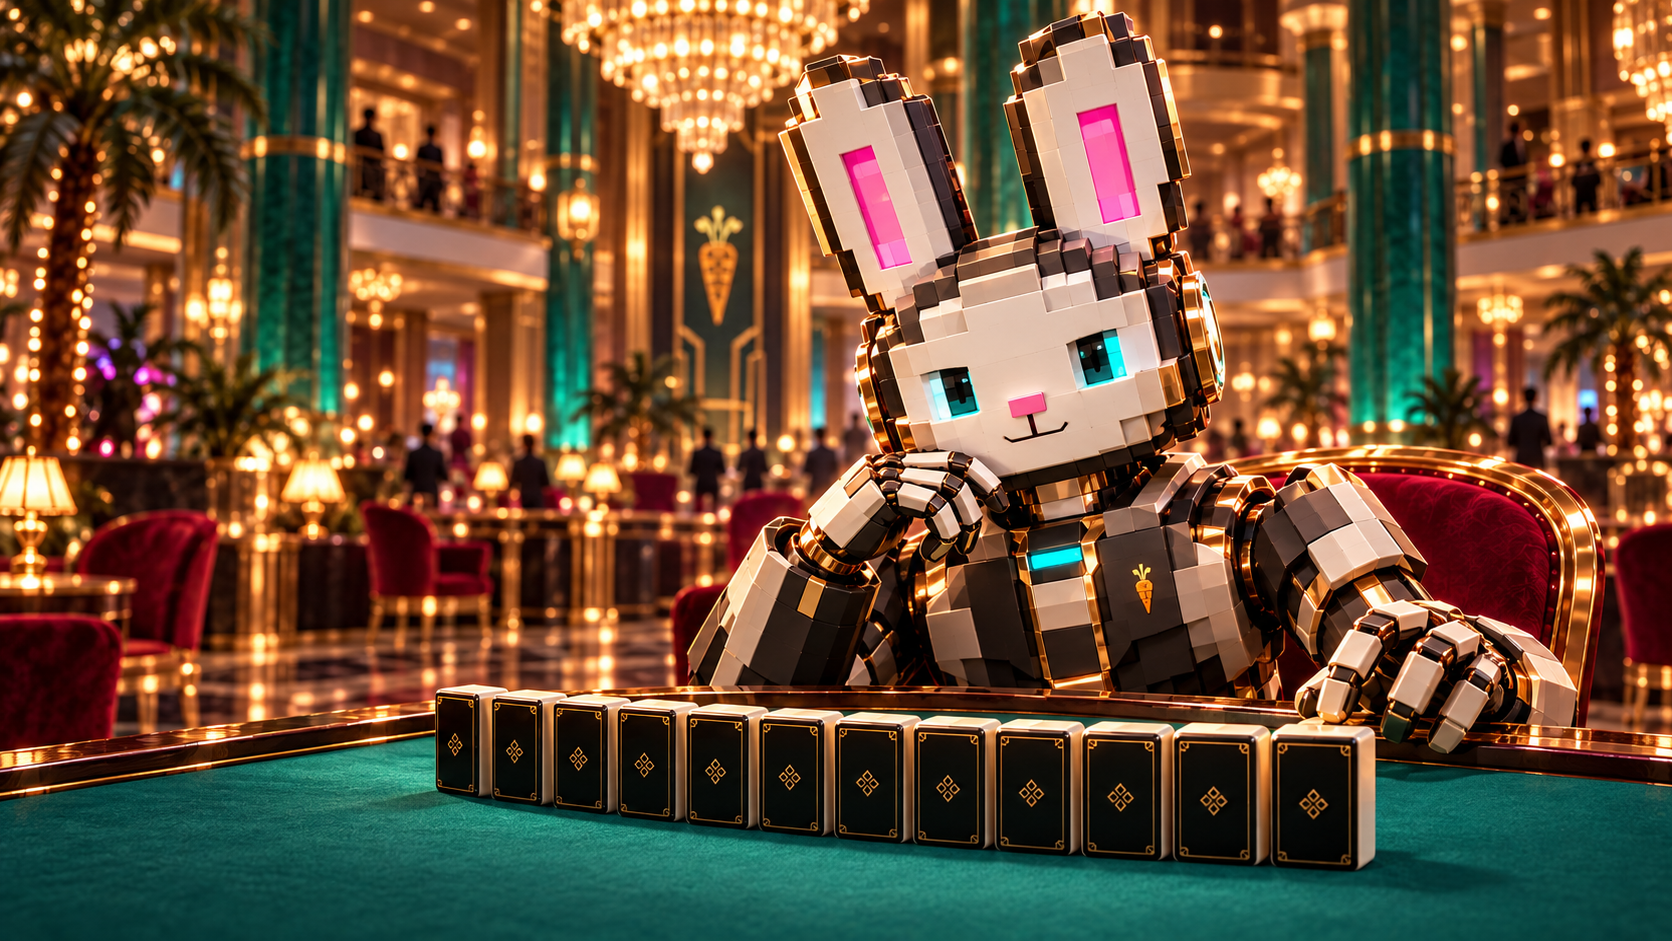
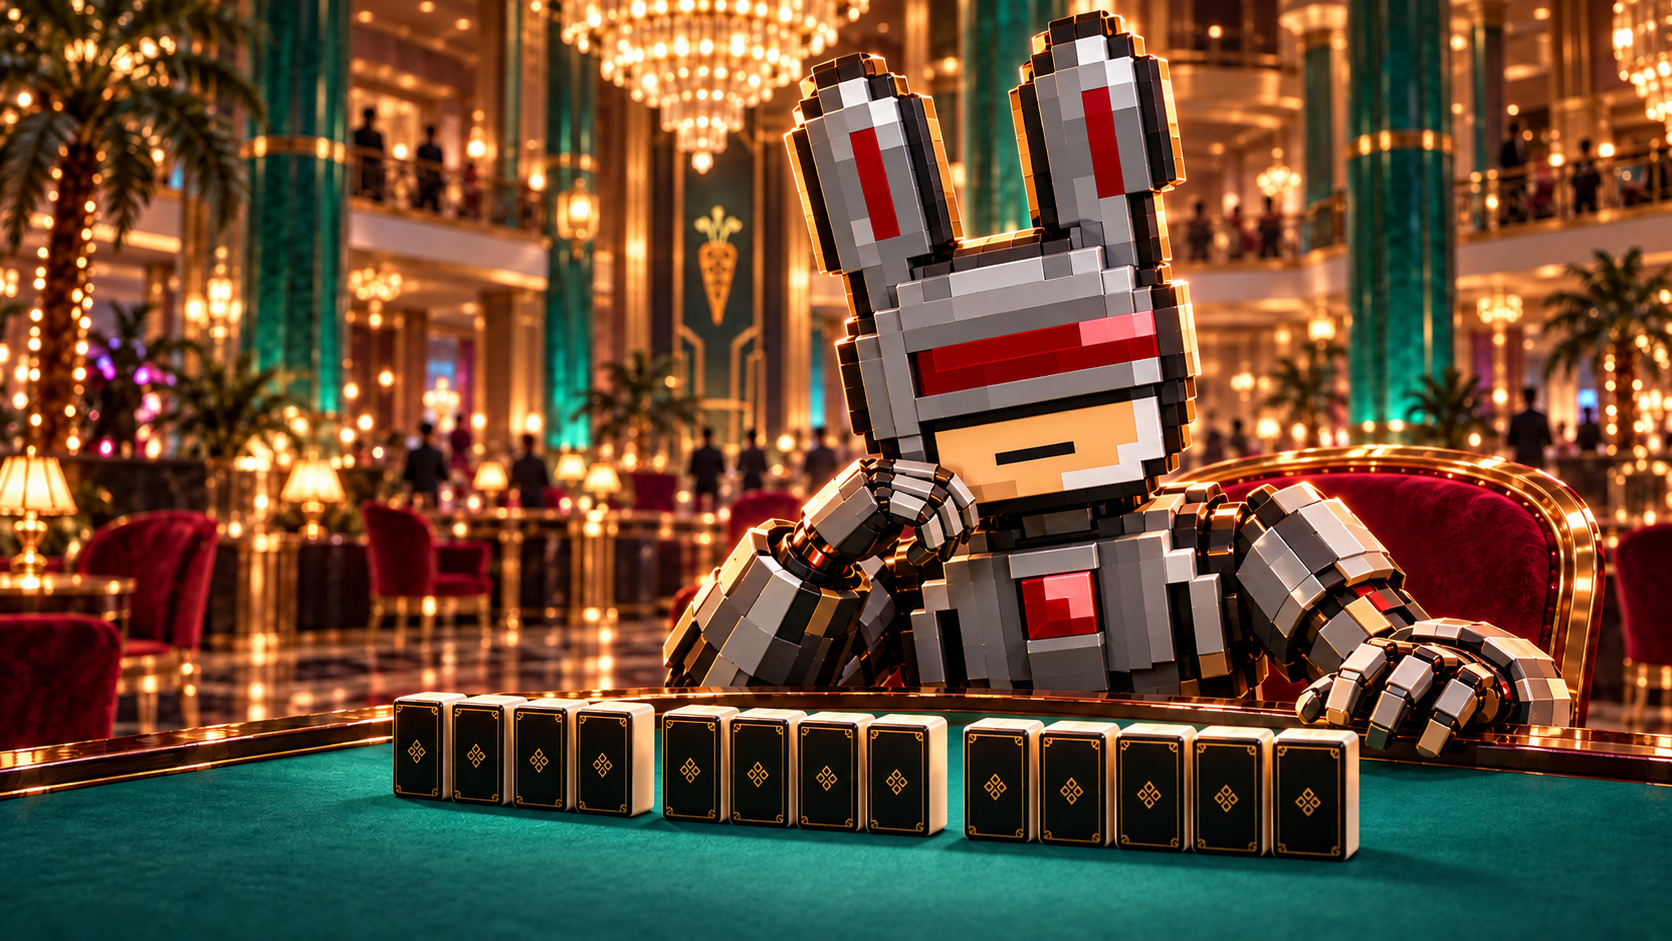
ART: use red-visor robot blueprint and exactly thirteen mahjong tiles

diff --git a/ART/bot-entry-v2/README.md b/ART/bot-entry-v2/README.md
@@ -1,9 +1,9 @@
 # BOT 對局入口重製設計
 
-![機器兔與立體黑金麻雀](bot-concept.png)
+![機器兔與十三張立體黑金麻雀](bot-concept.png)
 
-機器兔以珍珠白陶瓷面部、石墨黑裝甲、香檳金邊框及青色雙眼重新設計，保留 Bunny Warriors 的方塊立體兔角色風格。
+依玩家提供的像素機器兔藍本重製：灰銀裝甲、紅色橫向目鏡、紅色耳內、紅色胸口核心、膚色下顎與黑色橫向嘴形。
 
-桌面十三張麻雀採用厚實立體造型，清楚呈現象牙白頂部與側邊、倒角、接觸陰影及黑金牌背；牌背朝向觀眾。場景保留高級翡翠黑金賭場氣氛，下方預留即時顯示入口標題的位置。
+枱面為十三張麻雀，以 4＋4＋5 三段排列，方便確認總數。全部採用厚實立體造型、象牙白頂部與側邊、倒角、接觸陰影及朝向觀眾的黑金牌背。
 
-這是美術設計審閱圖，尚未取代公開遊戲的 BOT 對局入口圖。
+保留翡翠黑金賭場場景，下方預留即時顯示入口標題的位置。這是美術設計審閱圖，尚未取代公開遊戲的 BOT 對局入口圖。
